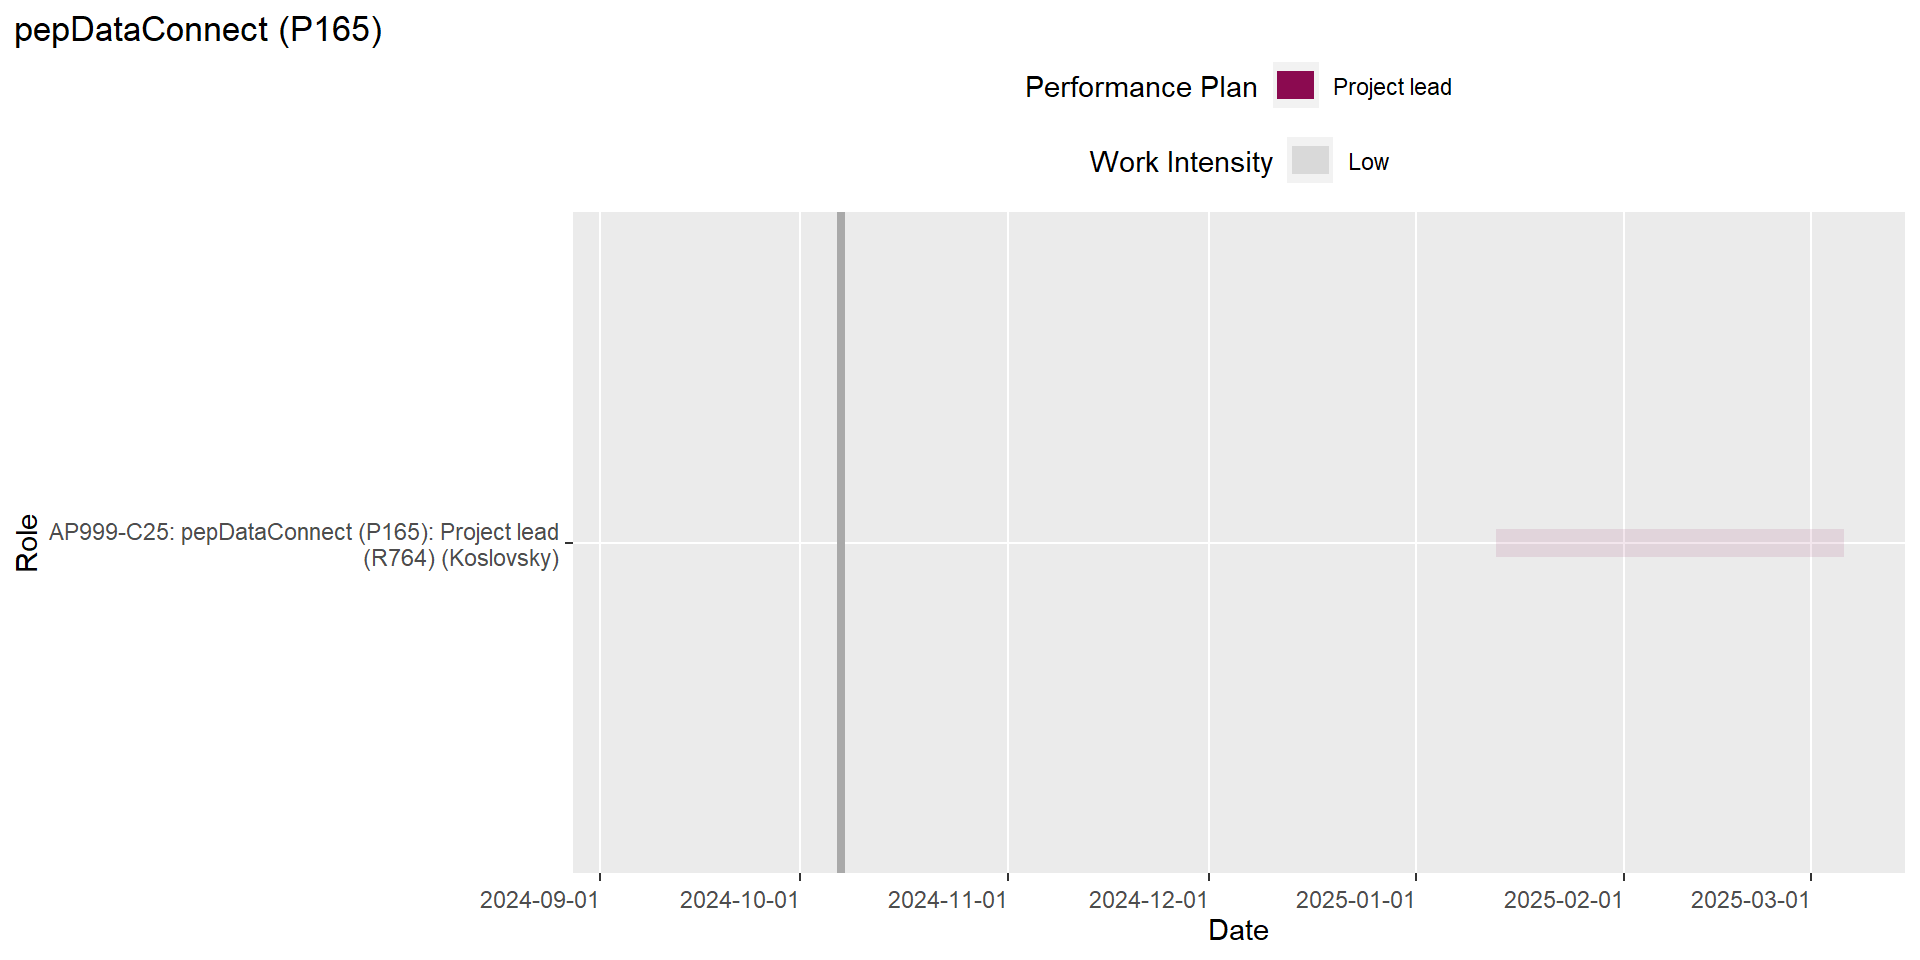
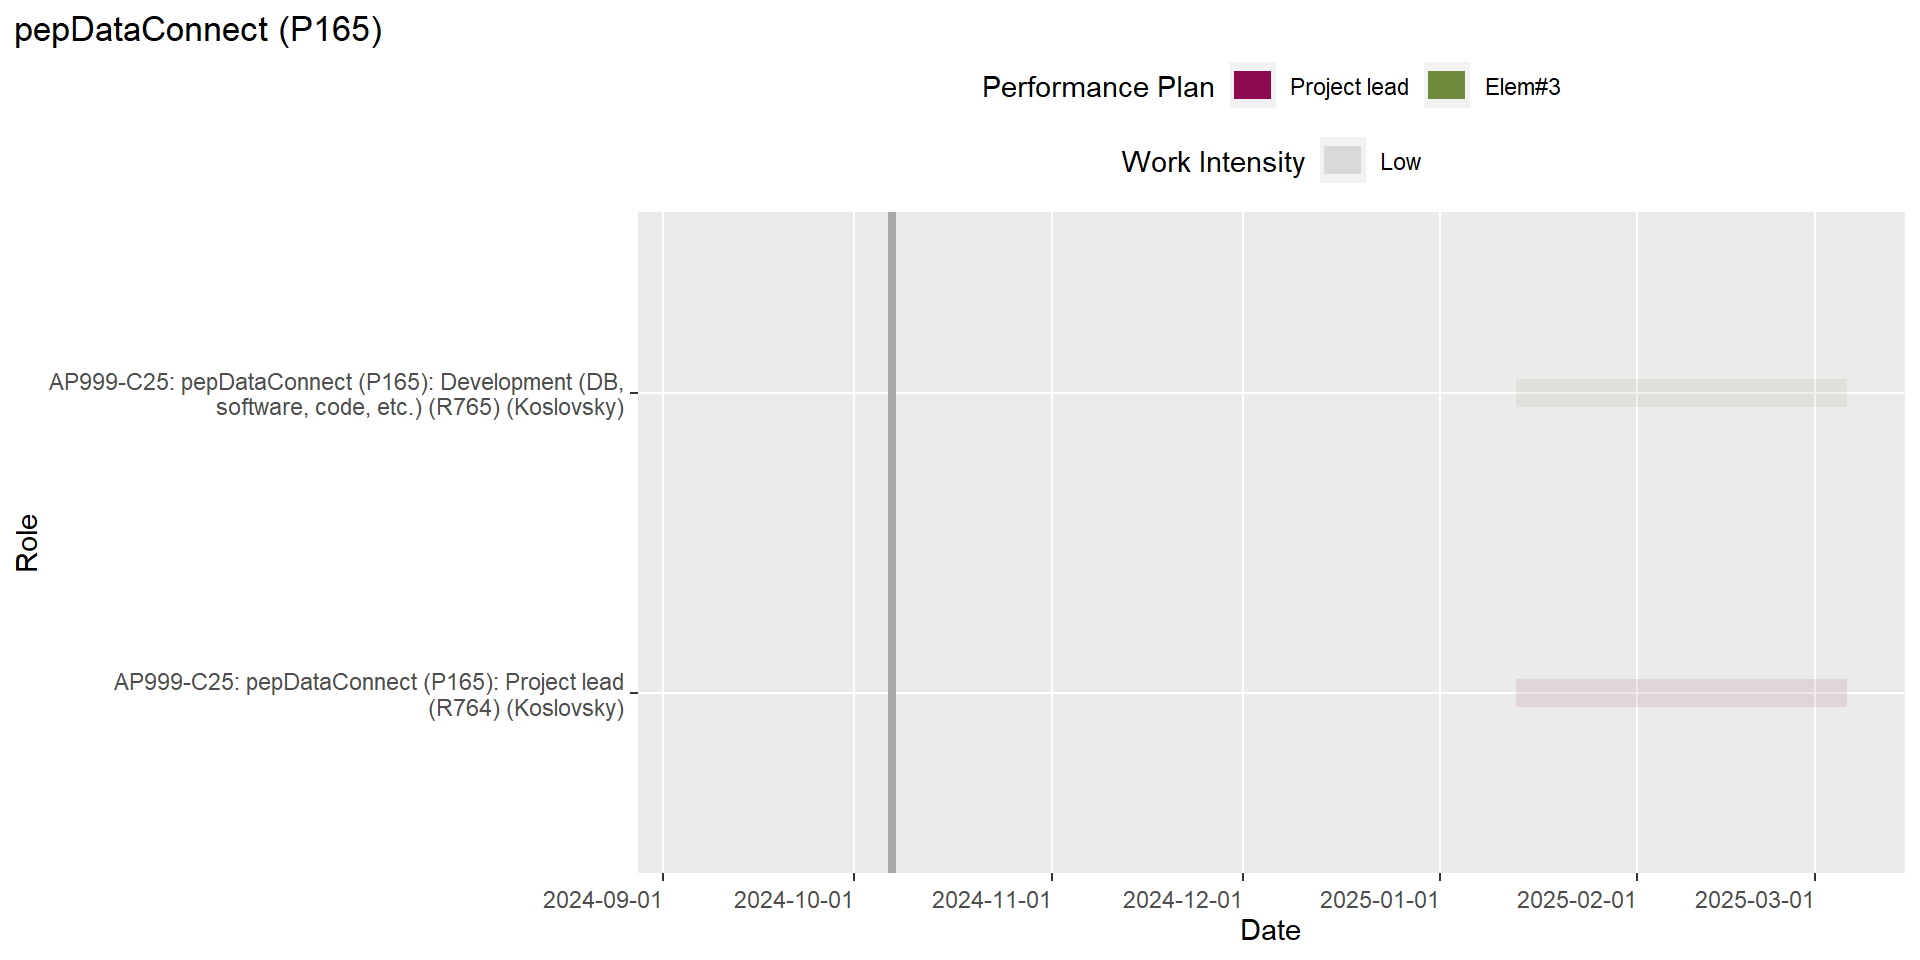
Performance Plan Elements update

diff --git a/SchedulingReport/SchedulingReport.html b/SchedulingReport/SchedulingReport.html
@@ -464,21 +464,12 @@ Click to Expand
 <ul class="nav nav-tabs" role="tablist"><li class="nav-item" role="presentation"><a class="nav-link active" id="tabset-3-1-tab" data-bs-toggle="tab" data-bs-target="#tabset-3-1" role="tab" aria-controls="tabset-3-1" aria-selected="true" href="">Brady</a></li><li class="nav-item" role="presentation"><a class="nav-link" id="tabset-3-2-tab" data-bs-toggle="tab" data-bs-target="#tabset-3-2" role="tab" aria-controls="tabset-3-2" aria-selected="false" href="">Christman</a></li><li class="nav-item" role="presentation"><a class="nav-link" id="tabset-3-3-tab" data-bs-toggle="tab" data-bs-target="#tabset-3-3" role="tab" aria-controls="tabset-3-3" aria-selected="false" href="">Conn</a></li><li class="nav-item" role="presentation"><a class="nav-link" id="tabset-3-4-tab" data-bs-toggle="tab" data-bs-target="#tabset-3-4" role="tab" aria-controls="tabset-3-4" aria-selected="false" href="">Koslovsky</a></li><li class="nav-item" role="presentation"><a class="nav-link" id="tabset-3-5-tab" data-bs-toggle="tab" data-bs-target="#tabset-3-5" role="tab" aria-controls="tabset-3-5" aria-selected="false" href="">London</a></li><li class="nav-item" role="presentation"><a class="nav-link" id="tabset-3-6-tab" data-bs-toggle="tab" data-bs-target="#tabset-3-6" role="tab" aria-controls="tabset-3-6" aria-selected="false" href="">Richmond</a></li><li class="nav-item" role="presentation"><a class="nav-link" id="tabset-3-7-tab" data-bs-toggle="tab" data-bs-target="#tabset-3-7" role="tab" aria-controls="tabset-3-7" aria-selected="false" href="">Walcott</a></li><li class="nav-item" role="presentation"><a class="nav-link" id="tabset-3-8-tab" data-bs-toggle="tab" data-bs-target="#tabset-3-8" role="tab" aria-controls="tabset-3-8" aria-selected="false" href="">Ziel</a></li></ul>
 <div class="tab-content">
 <div id="tabset-3-1" class="tab-pane active" role="tabpanel" aria-labelledby="tabset-3-1-tab">
-<section id="project-lead" class="level3">
-<h3 class="anchored" data-anchor-id="project-lead">—Project Lead—</h3>
+<section id="element-3" class="level3">
+<h3 class="anchored" data-anchor-id="element-3">—Element #3—</h3>
 <section id="ap342-c1-harbor-seals---aerial-surveys-of-harbor-seals-in-alaska" class="level4">
 <h4 class="anchored" data-anchor-id="ap342-c1-harbor-seals---aerial-surveys-of-harbor-seals-in-alaska"><u>AP342-C1: Harbor seals - Aerial surveys of harbor seals in Alaska</u></h4>
 <section id="aerial-survey-counts---glacial-p7" class="level5">
 <h5 class="anchored" data-anchor-id="aerial-survey-counts---glacial-p7">.. 2020-2021 Aerial Survey Counts - Glacial (P7)</h5>
-</section>
-</section>
-</section>
-<section id="element-3" class="level3">
-<h3 class="anchored" data-anchor-id="element-3">—Element #3—</h3>
-<section id="ap342-c1-harbor-seals---aerial-surveys-of-harbor-seals-in-alaska-1" class="level4">
-<h4 class="anchored" data-anchor-id="ap342-c1-harbor-seals---aerial-surveys-of-harbor-seals-in-alaska-1"><u>AP342-C1: Harbor seals - Aerial surveys of harbor seals in Alaska</u></h4>
-<section id="aerial-survey-counts---glacial-p7-1" class="level5">
-<h5 class="anchored" data-anchor-id="aerial-survey-counts---glacial-p7-1">.. 2020-2021 Aerial Survey Counts - Glacial (P7)</h5>
 <section id="data-processingcompilation-r285---counting-post-counting-work" class="level6">
 <h6 class="anchored" data-anchor-id="data-processingcompilation-r285---counting-post-counting-work">.. .. Data processing/compilation (R285) - Counting + post-counting work</h6>
 </section>
@@ -501,10 +492,10 @@ Click to Expand
 </section>
 <section id="element-3-1" class="level3">
 <h3 class="anchored" data-anchor-id="element-3-1">—Element #3—</h3>
-<section id="ap342-c1-harbor-seals---aerial-surveys-of-harbor-seals-in-alaska-2" class="level4">
-<h4 class="anchored" data-anchor-id="ap342-c1-harbor-seals---aerial-surveys-of-harbor-seals-in-alaska-2"><u>AP342-C1: Harbor seals - Aerial surveys of harbor seals in Alaska</u></h4>
-<section id="aerial-survey-counts---glacial-p7-2" class="level5">
-<h5 class="anchored" data-anchor-id="aerial-survey-counts---glacial-p7-2">.. 2020-2021 Aerial Survey Counts - Glacial (P7)</h5>
+<section id="ap342-c1-harbor-seals---aerial-surveys-of-harbor-seals-in-alaska-1" class="level4">
+<h4 class="anchored" data-anchor-id="ap342-c1-harbor-seals---aerial-surveys-of-harbor-seals-in-alaska-1"><u>AP342-C1: Harbor seals - Aerial surveys of harbor seals in Alaska</u></h4>
+<section id="aerial-survey-counts---glacial-p7-1" class="level5">
+<h5 class="anchored" data-anchor-id="aerial-survey-counts---glacial-p7-1">.. 2020-2021 Aerial Survey Counts - Glacial (P7)</h5>
 <section id="data-processingcompilation-r753---counting-cocoa-imagery" class="level6">
 <h6 class="anchored" data-anchor-id="data-processingcompilation-r753---counting-cocoa-imagery">.. .. Data processing/compilation (R753) - Counting COCOA imagery</h6>
 </section>
@@ -513,21 +504,12 @@ Click to Expand
 </section>
 </div>
 <div id="tabset-3-3" class="tab-pane" role="tabpanel" aria-labelledby="tabset-3-3-tab">
-<section id="project-lead-1" class="level3">
-<h3 class="anchored" data-anchor-id="project-lead-1">—Project Lead—</h3>
+<section id="element-4" class="level3">
+<h3 class="anchored" data-anchor-id="element-4">—Element #4—</h3>
 <section id="ap354-c12-toolbox---integrating-diverse-data-sources" class="level4">
 <h4 class="anchored" data-anchor-id="ap354-c12-toolbox---integrating-diverse-data-sources"><u>AP354-C12: Toolbox - Integrating diverse data sources</u></h4>
 <section id="manuscript-bearded-seal-at-sea-distributions-p37" class="level5">
 <h5 class="anchored" data-anchor-id="manuscript-bearded-seal-at-sea-distributions-p37">.. [Manuscript] Bearded seal “at sea” distributions (P37)</h5>
-</section>
-</section>
-</section>
-<section id="element-4" class="level3">
-<h3 class="anchored" data-anchor-id="element-4">—Element #4—</h3>
-<section id="ap354-c12-toolbox---integrating-diverse-data-sources-1" class="level4">
-<h4 class="anchored" data-anchor-id="ap354-c12-toolbox---integrating-diverse-data-sources-1"><u>AP354-C12: Toolbox - Integrating diverse data sources</u></h4>
-<section id="manuscript-bearded-seal-at-sea-distributions-p37-1" class="level5">
-<h5 class="anchored" data-anchor-id="manuscript-bearded-seal-at-sea-distributions-p37-1">.. [Manuscript] Bearded seal “at sea” distributions (P37)</h5>
 <section id="analytics-lead-r232---still-waiting-on-updated-acoustic-data-from-catherine" class="level6">
 <h6 class="anchored" data-anchor-id="analytics-lead-r232---still-waiting-on-updated-acoustic-data-from-catherine">.. .. Analytics lead (R232) - still waiting on updated acoustic data from Catherine</h6>
 </section>
@@ -539,47 +521,23 @@ Click to Expand
 </section>
 </div>
 <div id="tabset-3-4" class="tab-pane" role="tabpanel" aria-labelledby="tabset-3-4-tab">
-<section id="project-lead-2" class="level3">
-<h3 class="anchored" data-anchor-id="project-lead-2">—Project Lead—</h3>
-<section id="ap342-c17-harbor-seals---harbor-seal-reporting" class="level4">
-<h4 class="anchored" data-anchor-id="ap342-c17-harbor-seals---harbor-seal-reporting"><u>AP342-C17: Harbor seals - Harbor seal reporting</u></h4>
-<section id="ak-harbor-seals-interactive-application-p12" class="level5">
-<h5 class="anchored" data-anchor-id="ak-harbor-seals-interactive-application-p12">.. AK Harbor Seals Interactive Application (P12)</h5>
-</section>
-</section>
-<section id="ap346-c8-ice-seals---vessel-based-research-of-ice-seals" class="level4">
-<h4 class="anchored" data-anchor-id="ap346-c8-ice-seals---vessel-based-research-of-ice-seals"><u>AP346-C8: Ice seals - Vessel-based research of ice seals</u></h4>
-<section id="telemetry-data-management-improvements-p28" class="level5">
-<h5 class="anchored" data-anchor-id="telemetry-data-management-improvements-p28">.. Telemetry data management improvements (P28)</h5>
-</section>
-</section>
-<section id="ap354-c12-toolbox---integrating-diverse-data-sources-2" class="level4">
-<h4 class="anchored" data-anchor-id="ap354-c12-toolbox---integrating-diverse-data-sources-2"><u>AP354-C12: Toolbox - Integrating diverse data sources</u></h4>
-<section id="data-portal-development-for-at-sea-distributions-p120" class="level5">
-<h5 class="anchored" data-anchor-id="data-portal-development-for-at-sea-distributions-p120">.. Data portal development for “at sea” distributions (P120)</h5>
-</section>
-</section>
+<section id="element-1-1" class="level3">
+<h3 class="anchored" data-anchor-id="element-1-1">—Element #1—</h3>
 <section id="ap999-c15-other---program-data-management-1" class="level4">
 <h4 class="anchored" data-anchor-id="ap999-c15-other---program-data-management-1"><u>AP999-C15: Other - Program data management</u></h4>
 <section id="pep-dashboard-management-p101" class="level5">
 <h5 class="anchored" data-anchor-id="pep-dashboard-management-p101">.. PEP Dashboard management (P101)</h5>
+<section id="project-lead-r642" class="level6">
+<h6 class="anchored" data-anchor-id="project-lead-r642">.. .. Project lead (R642)</h6>
+</section>
 </section>
 <section id="pep-data-days-fy25-p158-1" class="level5">
 <h5 class="anchored" data-anchor-id="pep-data-days-fy25-p158-1">.. PEP Data Days FY25 (P158)</h5>
-</section>
-<section id="pep-datadb-management-p47" class="level5">
-<h5 class="anchored" data-anchor-id="pep-datadb-management-p47">.. PEP data/DB management (P47)</h5>
-</section>
-</section>
-<section id="ap999-c25-other---open-sciencesoftware" class="level4">
-<h4 class="anchored" data-anchor-id="ap999-c25-other---open-sciencesoftware"><u>AP999-C25: Other - Open science/software</u></h4>
-<section id="pepdataconnect-p165" class="level5">
-<h5 class="anchored" data-anchor-id="pepdataconnect-p165">.. pepDataConnect (P165)</h5>
+<section id="project-lead-r731---coordinate-event-pre--and-post-feedback-from-staff-prepare-info-for-presentations" class="level6">
+<h6 class="anchored" data-anchor-id="project-lead-r731---coordinate-event-pre--and-post-feedback-from-staff-prepare-info-for-presentations">.. .. Project lead (R731) - Coordinate event; pre- and post-feedback from staff; prepare info for presentations</h6>
 </section>
 </section>
 </section>
-<section id="element-1-1" class="level3">
-<h3 class="anchored" data-anchor-id="element-1-1">—Element #1—</h3>
 <section id="ap999-c28-other---working-group-memberships" class="level4">
 <h4 class="anchored" data-anchor-id="ap999-c28-other---working-group-memberships"><u>AP999-C28: Other - Working group memberships</u></h4>
 <section id="afsc-tide-p162" class="level5">
@@ -598,10 +556,10 @@ Click to Expand
 </section>
 <section id="element-3-2" class="level3">
 <h3 class="anchored" data-anchor-id="element-3-2">—Element #3—</h3>
-<section id="ap342-c1-harbor-seals---aerial-surveys-of-harbor-seals-in-alaska-3" class="level4">
-<h4 class="anchored" data-anchor-id="ap342-c1-harbor-seals---aerial-surveys-of-harbor-seals-in-alaska-3"><u>AP342-C1: Harbor seals - Aerial surveys of harbor seals in Alaska</u></h4>
-<section id="aerial-survey-counts---glacial-p7-3" class="level5">
-<h5 class="anchored" data-anchor-id="aerial-survey-counts---glacial-p7-3">.. 2020-2021 Aerial Survey Counts - Glacial (P7)</h5>
+<section id="ap342-c1-harbor-seals---aerial-surveys-of-harbor-seals-in-alaska-2" class="level4">
+<h4 class="anchored" data-anchor-id="ap342-c1-harbor-seals---aerial-surveys-of-harbor-seals-in-alaska-2"><u>AP342-C1: Harbor seals - Aerial surveys of harbor seals in Alaska</u></h4>
+<section id="aerial-survey-counts---glacial-p7-2" class="level5">
+<h5 class="anchored" data-anchor-id="aerial-survey-counts---glacial-p7-2">.. 2020-2021 Aerial Survey Counts - Glacial (P7)</h5>
 <section id="data-management-including-gis-r341---support-for-new-counting-process" class="level6">
 <h6 class="anchored" data-anchor-id="data-management-including-gis-r341---support-for-new-counting-process">.. .. Data management (including GIS) (R341) - Support for new counting process</h6>
 </section>
@@ -628,6 +586,15 @@ Click to Expand
 </section>
 </section>
 </section>
+<section id="ap346-c8-ice-seals---vessel-based-research-of-ice-seals" class="level4">
+<h4 class="anchored" data-anchor-id="ap346-c8-ice-seals---vessel-based-research-of-ice-seals"><u>AP346-C8: Ice seals - Vessel-based research of ice seals</u></h4>
+<section id="telemetry-data-management-improvements-p28" class="level5">
+<h5 class="anchored" data-anchor-id="telemetry-data-management-improvements-p28">.. Telemetry data management improvements (P28)</h5>
+<section id="project-lead-r613---oversee-updates-to-data-workflow" class="level6">
+<h6 class="anchored" data-anchor-id="project-lead-r613---oversee-updates-to-data-workflow">.. .. Project lead (R613) - Oversee updates to data workflow</h6>
+</section>
+</section>
+</section>
 <section id="ap356-c14-uas-body-condition---phase-iii-uas-field-tests-analysis-and-reporting" class="level4">
 <h4 class="anchored" data-anchor-id="ap356-c14-uas-body-condition---phase-iii-uas-field-tests-analysis-and-reporting"><u>AP356-C14: UAS body condition - Phase III: UAS field tests, analysis and reporting</u></h4>
 <section id="collect-imagery-of-free-ranging-seals-at-the-marginal-ice-zone-of-the-bering-sea-p44" class="level5">
@@ -643,9 +610,48 @@ Click to Expand
 </section>
 </section>
 </section>
+<section id="ap999-c15-other---program-data-management-2" class="level4">
+<h4 class="anchored" data-anchor-id="ap999-c15-other---program-data-management-2"><u>AP999-C15: Other - Program data management</u></h4>
+<section id="pep-datadb-management-p47" class="level5">
+<h5 class="anchored" data-anchor-id="pep-datadb-management-p47">.. PEP data/DB management (P47)</h5>
+<section id="project-lead-r715---updatemaintain-pepdb-for-projects-with-32-hour-time-commitment" class="level6">
+<h6 class="anchored" data-anchor-id="project-lead-r715---updatemaintain-pepdb-for-projects-with-32-hour-time-commitment">.. .. Project lead (R715) - Update/maintain pepDB for projects with &lt;32 hour time commitment</h6>
+</section>
+</section>
+</section>
+<section id="ap999-c25-other---open-sciencesoftware" class="level4">
+<h4 class="anchored" data-anchor-id="ap999-c25-other---open-sciencesoftware"><u>AP999-C25: Other - Open science/software</u></h4>
+<section id="pepdataconnect-p165" class="level5">
+<h5 class="anchored" data-anchor-id="pepdataconnect-p165">.. pepDataConnect (P165)</h5>
+<section id="project-lead-r764---prioritize-development-of-code-for-appprojects" class="level6">
+<h6 class="anchored" data-anchor-id="project-lead-r764---prioritize-development-of-code-for-appprojects">.. .. Project lead (R764) - Prioritize development of code for app/projects</h6>
+</section>
+<section id="development-db-software-code-etc.-r765---code-development-for-app" class="level6">
+<h6 class="anchored" data-anchor-id="development-db-software-code-etc.-r765---code-development-for-app">.. .. Development (DB, software, code, etc.) (R765) - Code development for app</h6>
+</section>
+</section>
+</section>
 </section>
 <section id="element-4-1" class="level3">
 <h3 class="anchored" data-anchor-id="element-4-1">—Element #4—</h3>
+<section id="ap342-c17-harbor-seals---harbor-seal-reporting" class="level4">
+<h4 class="anchored" data-anchor-id="ap342-c17-harbor-seals---harbor-seal-reporting"><u>AP342-C17: Harbor seals - Harbor seal reporting</u></h4>
+<section id="ak-harbor-seals-interactive-application-p12" class="level5">
+<h5 class="anchored" data-anchor-id="ak-harbor-seals-interactive-application-p12">.. AK Harbor Seals Interactive Application (P12)</h5>
+<section id="project-lead-r615---complete-work-to-make-application-publically-available" class="level6">
+<h6 class="anchored" data-anchor-id="project-lead-r615---complete-work-to-make-application-publically-available">.. .. Project lead (R615) - Complete work to make application publically available</h6>
+</section>
+</section>
+</section>
+<section id="ap354-c12-toolbox---integrating-diverse-data-sources-1" class="level4">
+<h4 class="anchored" data-anchor-id="ap354-c12-toolbox---integrating-diverse-data-sources-1"><u>AP354-C12: Toolbox - Integrating diverse data sources</u></h4>
+<section id="data-portal-development-for-at-sea-distributions-p120" class="level5">
+<h5 class="anchored" data-anchor-id="data-portal-development-for-at-sea-distributions-p120">.. Data portal development for “at sea” distributions (P120)</h5>
+<section id="project-lead-r638---final-steps-to-make-application-v1.0-publically-available" class="level6">
+<h6 class="anchored" data-anchor-id="project-lead-r638---final-steps-to-make-application-v1.0-publically-available">.. .. Project lead (R638) - Final steps to make application v1.0 publically available</h6>
+</section>
+</section>
+</section>
 <section id="ap356-c14-uas-body-condition---phase-iii-uas-field-tests-analysis-and-reporting-1" class="level4">
 <h4 class="anchored" data-anchor-id="ap356-c14-uas-body-condition---phase-iii-uas-field-tests-analysis-and-reporting-1"><u>AP356-C14: UAS body condition - Phase III: UAS field tests, analysis and reporting</u></h4>
 <section id="uas-body-condition-data-analysis-and-reporting-p62-1" class="level5">
@@ -669,8 +675,8 @@ Click to Expand
 <div id="tabset-3-5" class="tab-pane" role="tabpanel" aria-labelledby="tabset-3-5-tab">
 <section id="element-1-2" class="level3">
 <h3 class="anchored" data-anchor-id="element-1-2">—Element #1—</h3>
-<section id="ap999-c15-other---program-data-management-2" class="level4">
-<h4 class="anchored" data-anchor-id="ap999-c15-other---program-data-management-2"><u>AP999-C15: Other - Program data management</u></h4>
+<section id="ap999-c15-other---program-data-management-3" class="level4">
+<h4 class="anchored" data-anchor-id="ap999-c15-other---program-data-management-3"><u>AP999-C15: Other - Program data management</u></h4>
 <section id="pep-data-days-fy25-p158-2" class="level5">
 <h5 class="anchored" data-anchor-id="pep-data-days-fy25-p158-2">.. PEP Data Days FY25 (P158)</h5>
 <section id="science-teamcommittee-r745" class="level6">
@@ -695,8 +701,8 @@ Click to Expand
 <div id="tabset-3-6" class="tab-pane" role="tabpanel" aria-labelledby="tabset-3-6-tab">
 <section id="element-1-3" class="level3">
 <h3 class="anchored" data-anchor-id="element-1-3">—Element #1—</h3>
-<section id="ap999-c15-other---program-data-management-3" class="level4">
-<h4 class="anchored" data-anchor-id="ap999-c15-other---program-data-management-3"><u>AP999-C15: Other - Program data management</u></h4>
+<section id="ap999-c15-other---program-data-management-4" class="level4">
+<h4 class="anchored" data-anchor-id="ap999-c15-other---program-data-management-4"><u>AP999-C15: Other - Program data management</u></h4>
 <section id="pep-data-days-fy25-p158-3" class="level5">
 <h5 class="anchored" data-anchor-id="pep-data-days-fy25-p158-3">.. PEP Data Days FY25 (P158)</h5>
 <section id="science-teamcommittee-r746" class="level6">
@@ -709,8 +715,8 @@ Click to Expand
 <div id="tabset-3-7" class="tab-pane" role="tabpanel" aria-labelledby="tabset-3-7-tab">
 <section id="element-1-4" class="level3">
 <h3 class="anchored" data-anchor-id="element-1-4">—Element #1—</h3>
-<section id="ap999-c15-other---program-data-management-4" class="level4">
-<h4 class="anchored" data-anchor-id="ap999-c15-other---program-data-management-4"><u>AP999-C15: Other - Program data management</u></h4>
+<section id="ap999-c15-other---program-data-management-5" class="level4">
+<h4 class="anchored" data-anchor-id="ap999-c15-other---program-data-management-5"><u>AP999-C15: Other - Program data management</u></h4>
 <section id="pep-data-days-fy25-p158-4" class="level5">
 <h5 class="anchored" data-anchor-id="pep-data-days-fy25-p158-4">.. PEP Data Days FY25 (P158)</h5>
 <section id="science-teamcommittee-r747" class="level6">
@@ -721,10 +727,10 @@ Click to Expand
 </section>
 <section id="element-3-4" class="level3">
 <h3 class="anchored" data-anchor-id="element-3-4">—Element #3—</h3>
-<section id="ap342-c1-harbor-seals---aerial-surveys-of-harbor-seals-in-alaska-4" class="level4">
-<h4 class="anchored" data-anchor-id="ap342-c1-harbor-seals---aerial-surveys-of-harbor-seals-in-alaska-4"><u>AP342-C1: Harbor seals - Aerial surveys of harbor seals in Alaska</u></h4>
-<section id="aerial-survey-counts---glacial-p7-4" class="level5">
-<h5 class="anchored" data-anchor-id="aerial-survey-counts---glacial-p7-4">.. 2020-2021 Aerial Survey Counts - Glacial (P7)</h5>
+<section id="ap342-c1-harbor-seals---aerial-surveys-of-harbor-seals-in-alaska-3" class="level4">
+<h4 class="anchored" data-anchor-id="ap342-c1-harbor-seals---aerial-surveys-of-harbor-seals-in-alaska-3"><u>AP342-C1: Harbor seals - Aerial surveys of harbor seals in Alaska</u></h4>
+<section id="aerial-survey-counts---glacial-p7-3" class="level5">
+<h5 class="anchored" data-anchor-id="aerial-survey-counts---glacial-p7-3">.. 2020-2021 Aerial Survey Counts - Glacial (P7)</h5>
 <section id="data-processingcompilation-r754---counting-cocoa-imagery" class="level6">
 <h6 class="anchored" data-anchor-id="data-processingcompilation-r754---counting-cocoa-imagery">.. .. Data processing/compilation (R754) - Counting COCOA imagery</h6>
 </section>
@@ -735,8 +741,8 @@ Click to Expand
 <div id="tabset-3-8" class="tab-pane" role="tabpanel" aria-labelledby="tabset-3-8-tab">
 <section id="element-1-5" class="level3">
 <h3 class="anchored" data-anchor-id="element-1-5">—Element #1—</h3>
-<section id="ap999-c15-other---program-data-management-5" class="level4">
-<h4 class="anchored" data-anchor-id="ap999-c15-other---program-data-management-5"><u>AP999-C15: Other - Program data management</u></h4>
+<section id="ap999-c15-other---program-data-management-6" class="level4">
+<h4 class="anchored" data-anchor-id="ap999-c15-other---program-data-management-6"><u>AP999-C15: Other - Program data management</u></h4>
 <section id="pep-data-days-fy25-p158-5" class="level5">
 <h5 class="anchored" data-anchor-id="pep-data-days-fy25-p158-5">.. PEP Data Days FY25 (P158)</h5>
 <section id="science-teamcommittee-r748" class="level6">
